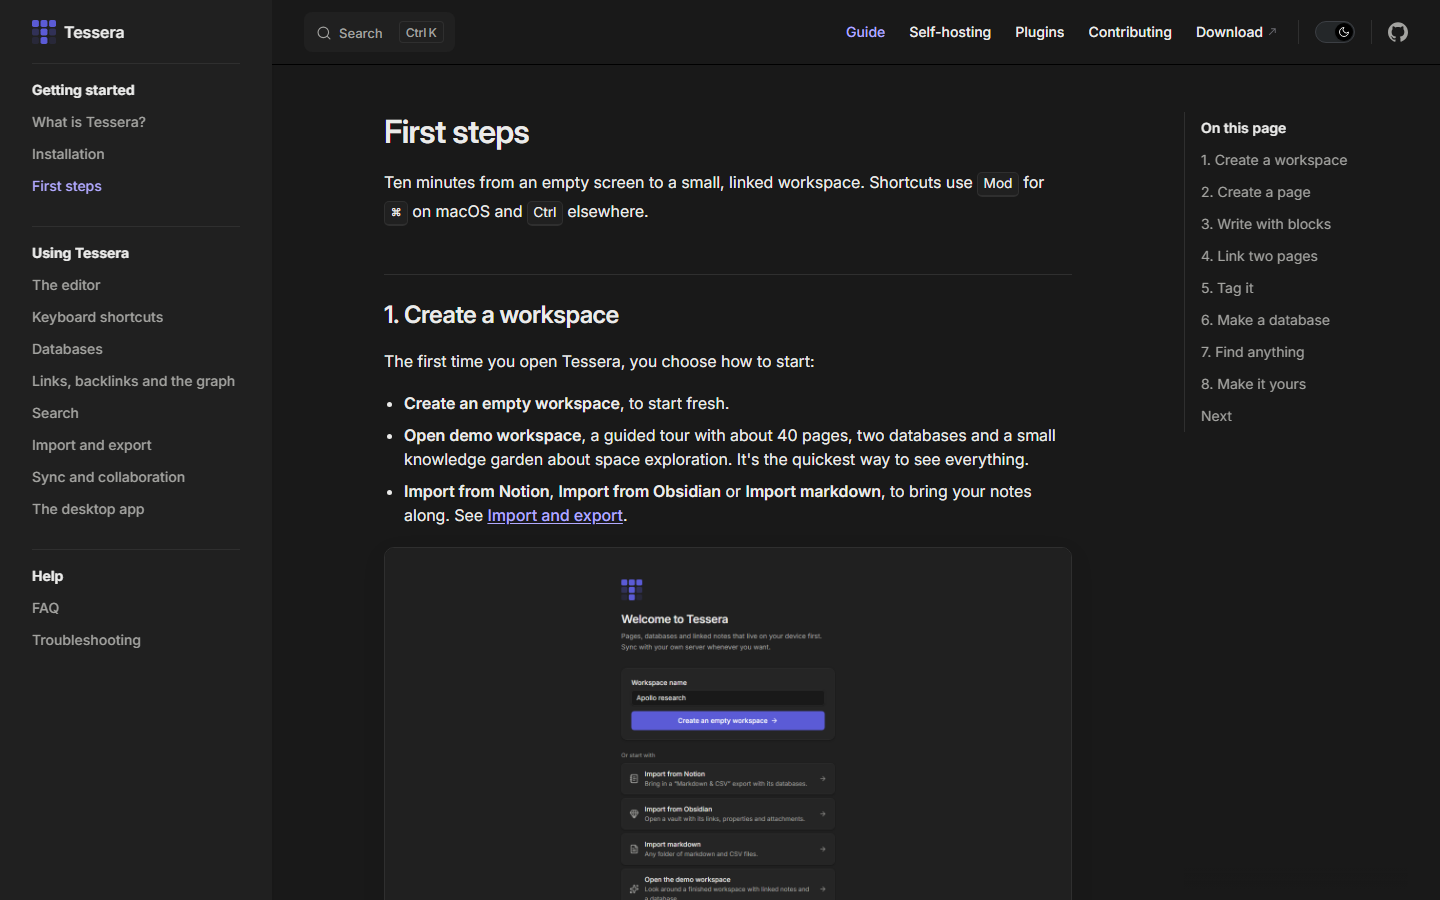
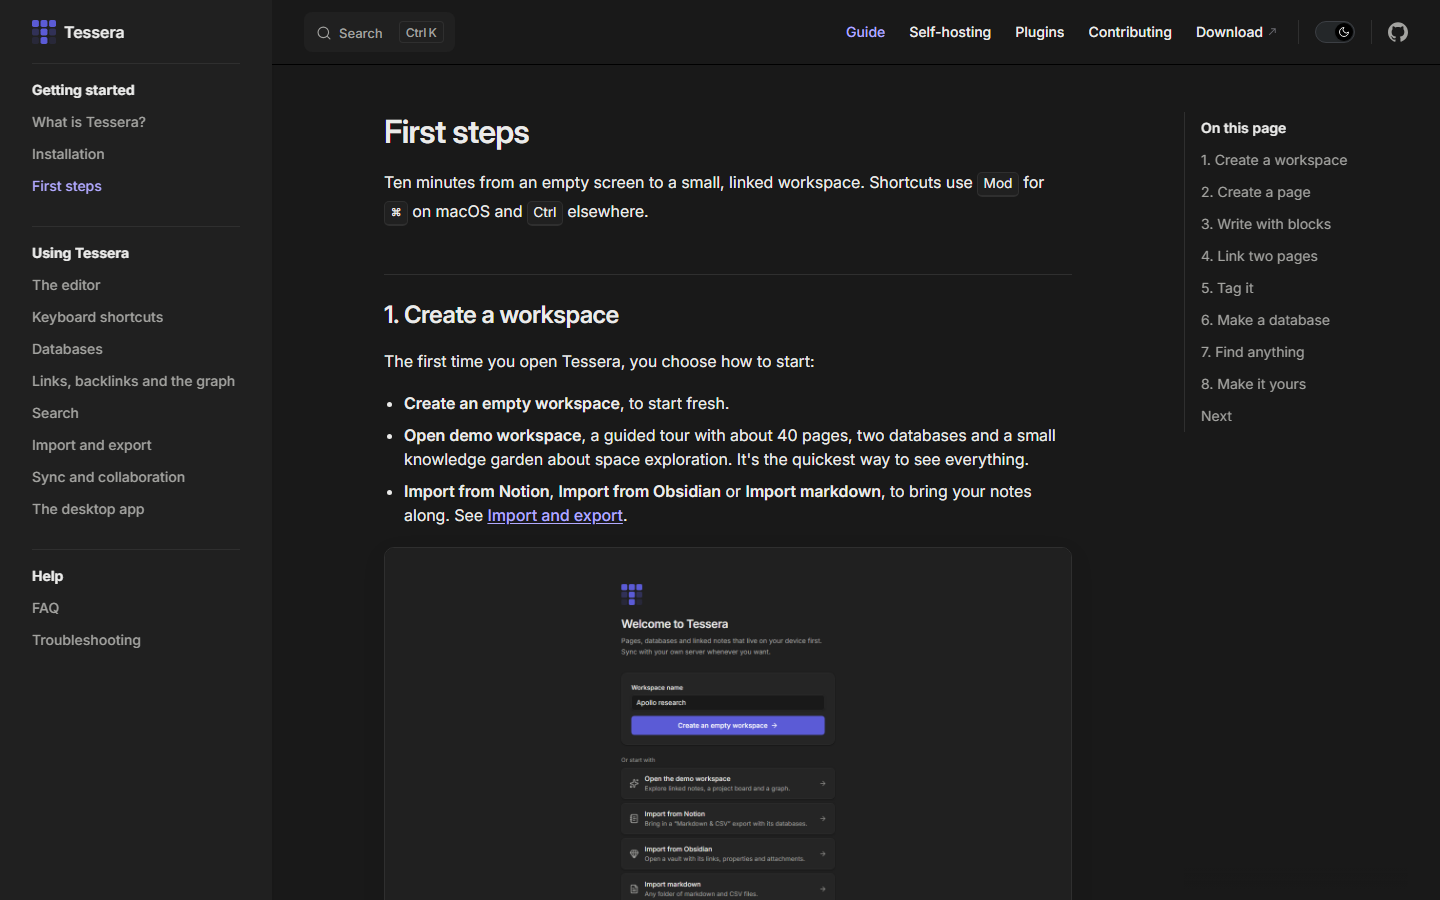
docs: name the demo button as the app does, and retake the docs site shots

Changed region(s): [[0.4062, 0.6533, 0.5625, 1.0]]

diff --git a/docs/guide/first-steps.md b/docs/guide/first-steps.md
@@ -8,7 +8,7 @@ Ten minutes from an empty screen to a small, linked workspace. Shortcuts use <kb
 The first time you open Tessera, you choose how to start:
 
 - **Create an empty workspace**, to start fresh.
-- **Open demo workspace**, a guided tour with about 40 pages, two databases and a small
+- **Open the demo workspace**, a guided tour with about 40 pages, two databases and a small
   knowledge garden about space exploration. It's the quickest way to see everything.
 - **Import from Notion**, **Import from Obsidian** or **Import markdown**, to bring your notes
   along. See [Import and export](./import-export).

diff --git a/README.md b/README.md
@@ -178,7 +178,7 @@ you choose, with quick capture from anywhere. The server is one container with S
 </details>
 
 > [!TIP]
-> The fastest way to look around: choose **Open demo workspace** on the first screen. It has a
+> The fastest way to look around: choose **Open the demo workspace** on the first screen. It has a
 > project board, a reading list, meeting notes and a small knowledge garden about the history of
 > space exploration, so the graph has something to show.
 
